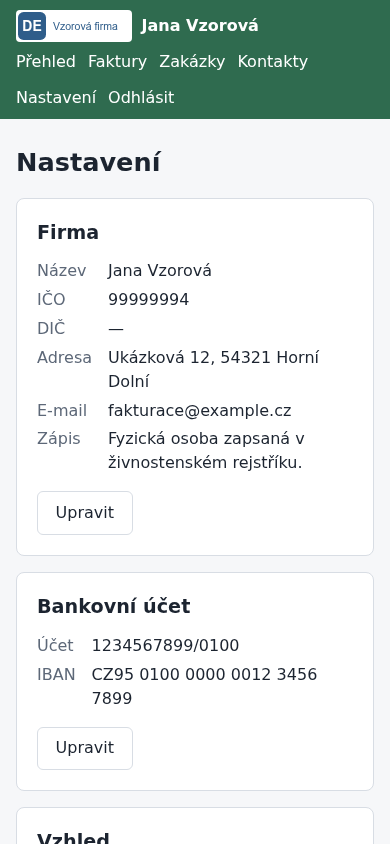
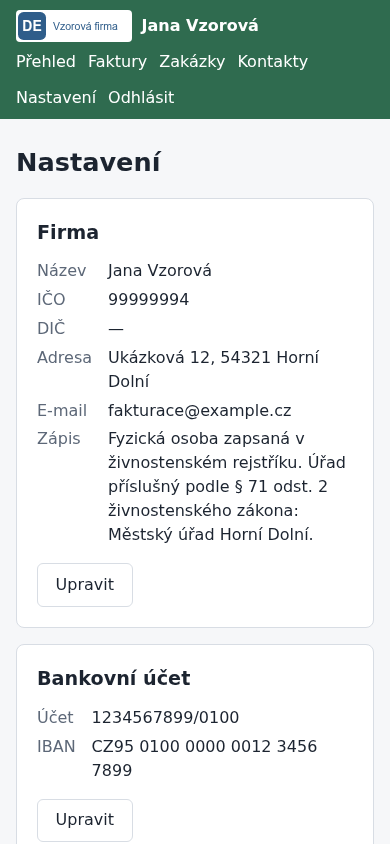
feat(invoices): print the trade register note in the PDF footer

diff --git a/app/invoices/templates/faktura.html b/app/invoices/templates/faktura.html
@@ -5,7 +5,7 @@
 <title>Faktura {{ inv.cislo }}</title>
 <style>
 {{ theme_css }}
-@page { size: A4; margin: 16mm 15mm 18mm; }
+@page { size: A4; margin: 16mm 15mm 22mm; }
 * { box-sizing: border-box; }
 body { font-family: "DejaVu Sans", "Liberation Sans", Arial, sans-serif; font-size: 9.5pt; color: #1c2430; line-height: 1.4; margin: 0; }
 h1 { font-size: 20pt; margin: 0; color: var(--brand-primary); }
@@ -40,11 +40,15 @@ tr { page-break-inside: avoid; }
 .notes { flex: 1; }
 .notes p { margin: 0 0 2mm; }
 .storno { color: #b42318; border: 2px solid #b42318; padding: 2mm 4mm; font-weight: bold; margin-bottom: 5mm; }
-footer { position: fixed; bottom: -10mm; left: 0; right: 0; font-size: 7.5pt; color: #5d6878; text-align: center; }
+footer { position: fixed; bottom: -14mm; left: 0; right: 0; font-size: 7.5pt; color: #5d6878; text-align: center; border-top: 1px solid #e3e7ec; padding-top: 2mm; }
+footer p { margin: 0; }
 </style>
 </head>
 <body>
-<footer>{{ firma.firma.nazev }} · IČO {{ firma.firma.ico }}{% if firma.firma.email %} · {{ firma.firma.email }}{% endif %}{% if firma.firma.telefon %} · {{ firma.firma.telefon }}{% endif %}{% if firma.firma.web %} · {{ firma.firma.web }}{% endif %}</footer>
+<footer>
+  {% if firma.firma.zapis_rejstrik %}<p>{{ firma.firma.zapis_rejstrik }}</p>{% endif %}
+  <p>{{ firma.firma.nazev }} · IČO {{ firma.firma.ico }}{% if firma.firma.email %} · {{ firma.firma.email }}{% endif %}{% if firma.firma.telefon %} · {{ firma.firma.telefon }}{% endif %}{% if firma.firma.web %} · {{ firma.firma.web }}{% endif %}</p>
+</footer>
 
 <div class="head">
   <div>{% if logo_uri %}<img class="logo" src="{{ logo_uri }}" alt="">{% endif %}</div>
@@ -64,7 +68,6 @@ footer { position: fixed; bottom: -10mm; left: 0; right: 0; font-size: 7.5pt; co
     <p>{{ firma.firma.ulice }}</p>
     <p>{{ firma.firma.psc }} {{ firma.firma.mesto }}</p>
     <p>IČO: {{ firma.firma.ico }}{% if firma.firma.dic %}, DIČ: {{ firma.firma.dic }}{% endif %}</p>
-    {% if firma.firma.zapis_rejstrik %}<p>{{ firma.firma.zapis_rejstrik }}</p>{% endif %}
   </div>
   <div class="party customer">
     <h2>Odběratel</h2>

diff --git a/docs/konfigurace.md b/docs/konfigurace.md
@@ -70,7 +70,7 @@ Vytvoří ho průvodce. Vzor je `firma.example.toml`.
 | `[firma] ico`, `dic` | IČO (8 číslic) a DIČ (`CZ…`, u neplátce DPH nepovinné). |
 | `[firma] ulice`, `mesto`, `psc` | Adresa sídla. |
 | `[firma] email`, `telefon`, `web` | Kontakty na faktuře. |
-| `[firma] zapis_rejstrik` | Údaj o zápisu v živnostenském rejstříku na faktuře. |
+| `[firma] zapis_rejstrik` | Údaj o zápisu v živnostenském rejstříku a příslušném úřadu, tiskne se v patičce faktury. |
 | `[banka] ucet`, `iban` | Číslo účtu (`předčíslí-číslo/kód`) a IBAN pro QR platbu. |
 | `[fakturace] format_cisla` | `RRRRNNNN` (2026 0001) nebo `RRRRNNN` (2026 001). Po vystavení první faktury už nejde změnit. |
 | `[fakturace] pocatecni_cislo` | Pořadové číslo úplně první faktury v aplikaci (pokud jste letos už fakturovali jinde). Další roky začínají vždy od 1. |

diff --git a/CHANGELOG.md b/CHANGELOG.md
@@ -18,6 +18,7 @@ vyžaduje migraci dat, je vždy nová hlavní verze.
 ### Opraveno
 
 - PDF faktury: IBAN přetékal do sloupce s daty.
+- Údaj o zápisu v živnostenském rejstříku se na faktuře tiskne v patičce místo v bloku dodavatele.
 - Instalace podle návodu končila chybou `denied` a `open Dockerfile: no such file or directory`,
   protože návod stahoval jen `docker-compose.yml` a počítal s image na `ghcr.io`, který zatím
   neexistuje. Do prvního vydání se aplikace instaluje z repozitáře a image sestavuje lokálně
